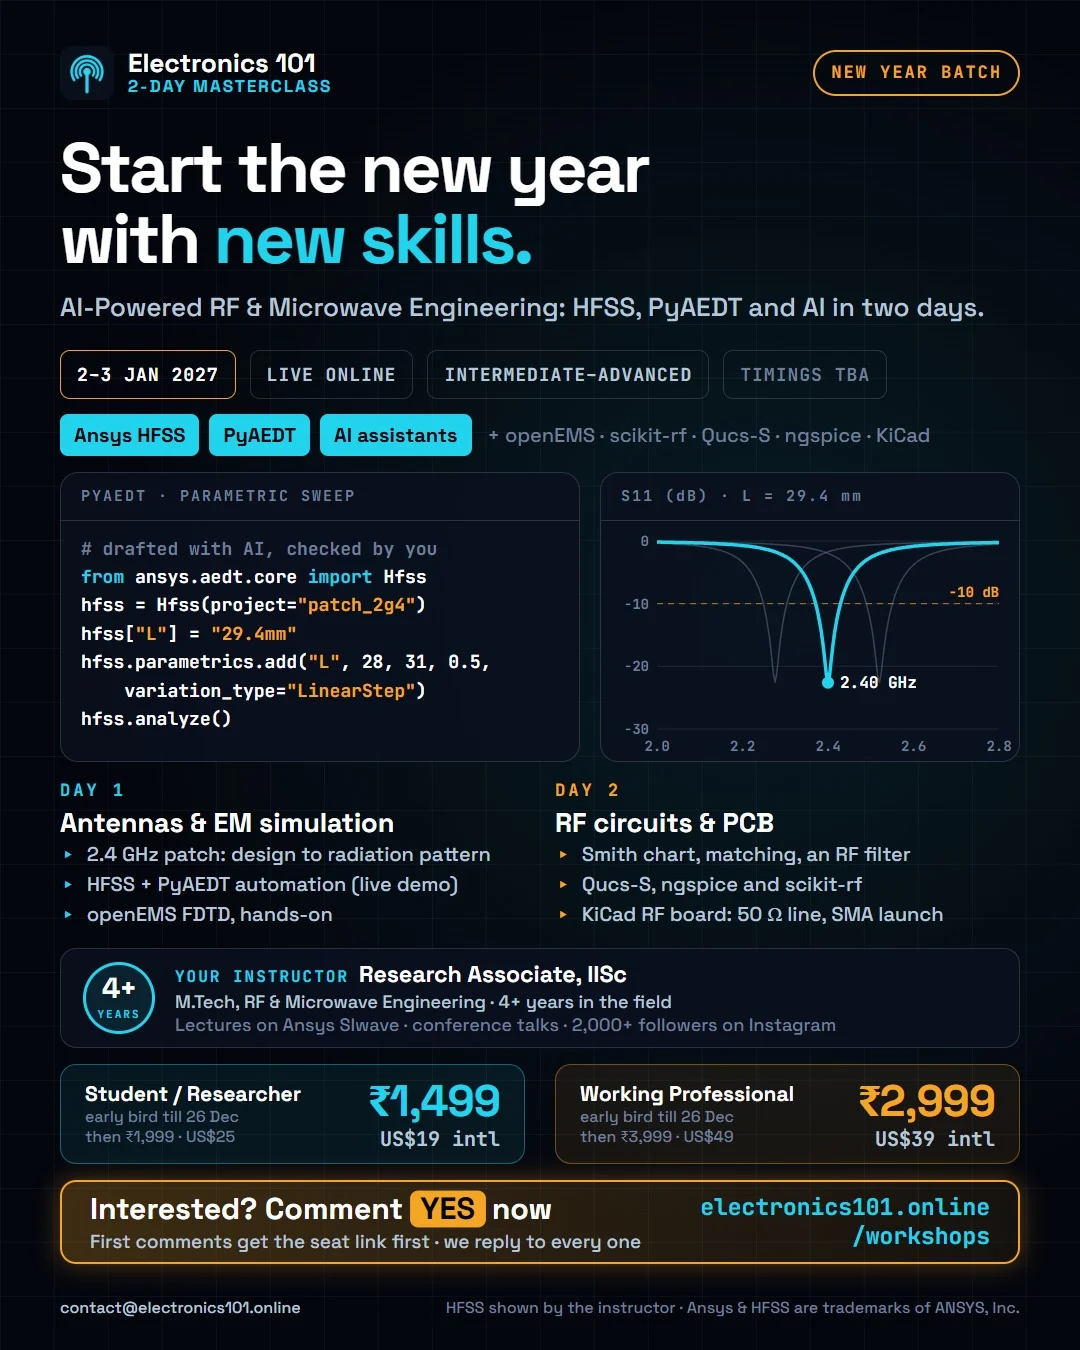
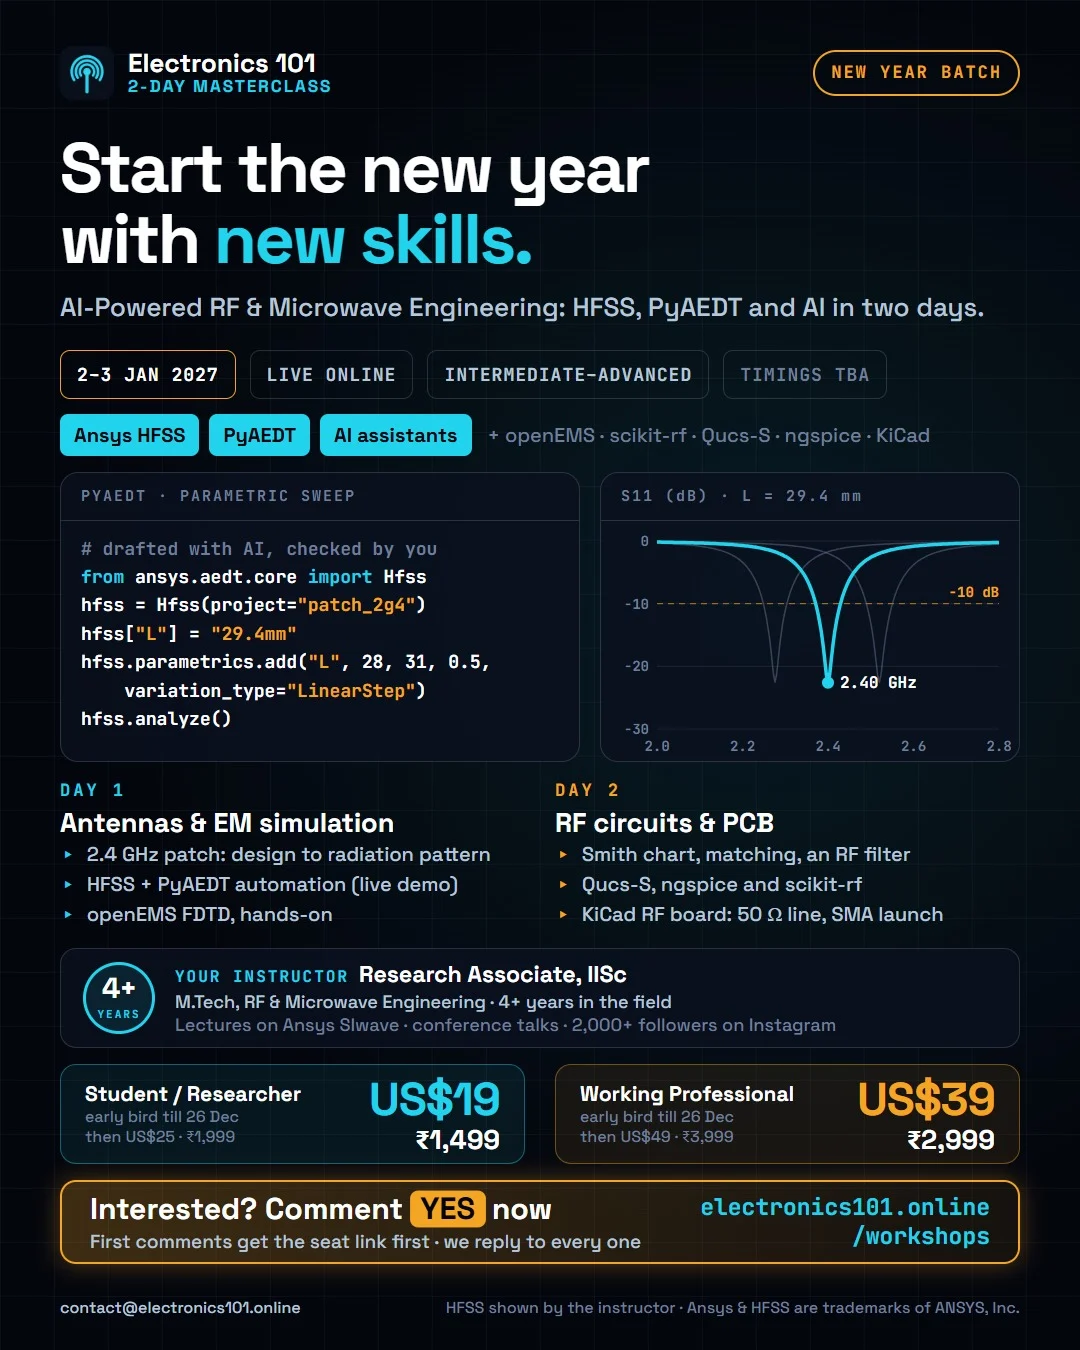
feat(workshops): US$ price large, rupee price medium on tiers with a dollar price
User, 2026-11-22. Posters re-rendered to match.

Claude-Session: https://claude.ai/code/session_01KU8XNnGko7zA7XhxfYRQbX

diff --git a/src/app/workshops/[slug]/page.tsx b/src/app/workshops/[slug]/page.tsx
@@ -543,8 +543,20 @@ export default async function WorkshopDetailPage({ params }: Params) {
                         {tier.note ? <Badge tone="accent">{tier.note}</Badge> : null}
                       </div>
 
-                      <div className="mt-6 flex flex-wrap items-baseline gap-3">
-                        <p className="text-3xl font-bold tabular">
+                      {/* US$ big, ₹ medium for tiers that carry a dollar price (user, 2026-11-22) */}
+                      {tier.priceUsd ? (
+                        <div className="mt-6 flex flex-wrap items-baseline gap-3">
+                          <p className="text-3xl font-bold tabular">US${tier.priceUsd}</p>
+                          {tier.standardPriceUsd ? (
+                            <p className="text-lg text-faint line-through tabular">US${tier.standardPriceUsd}</p>
+                          ) : null}
+                          {tier.standardPriceUsd ? (
+                            <Badge tone="ok">Save US${tier.standardPriceUsd - tier.priceUsd}</Badge>
+                          ) : null}
+                        </div>
+                      ) : null}
+                      <div className={cn("flex flex-wrap items-baseline gap-3", tier.priceUsd ? "mt-2" : "mt-6")}>
+                        <p className={cn("font-bold tabular", tier.priceUsd ? "text-xl" : "text-3xl")}>
                           {priceLabel(tier.priceInr)}
                         </p>
                         {/* the old price is struck through, so the saving is
@@ -554,7 +566,7 @@ export default async function WorkshopDetailPage({ params }: Params) {
                             {priceLabel(tier.standardPriceInr)}
                           </p>
                         ) : null}
-                        {tier.standardPriceInr && tier.priceInr ? (
+                        {tier.standardPriceInr && tier.priceInr && !tier.priceUsd ? (
                           <Badge tone="ok">
                             Save {priceLabel(tier.standardPriceInr - tier.priceInr)}
                           </Badge>
@@ -577,12 +589,6 @@ export default async function WorkshopDetailPage({ params }: Params) {
                           Confirm the amount on the Razorpay page before paying.
                         </p>
                       )}
-                      {tier.priceUsd ? (
-                        <p className="mt-1 text-sm font-medium text-muted tabular">
-                          International: US${tier.priceUsd}
-                          {tier.standardPriceUsd ? ` early bird · US$${tier.standardPriceUsd} after` : ""}
-                        </p>
-                      ) : null}
 
                       <div className="mt-auto pt-6">
                         {tier.href ? (
